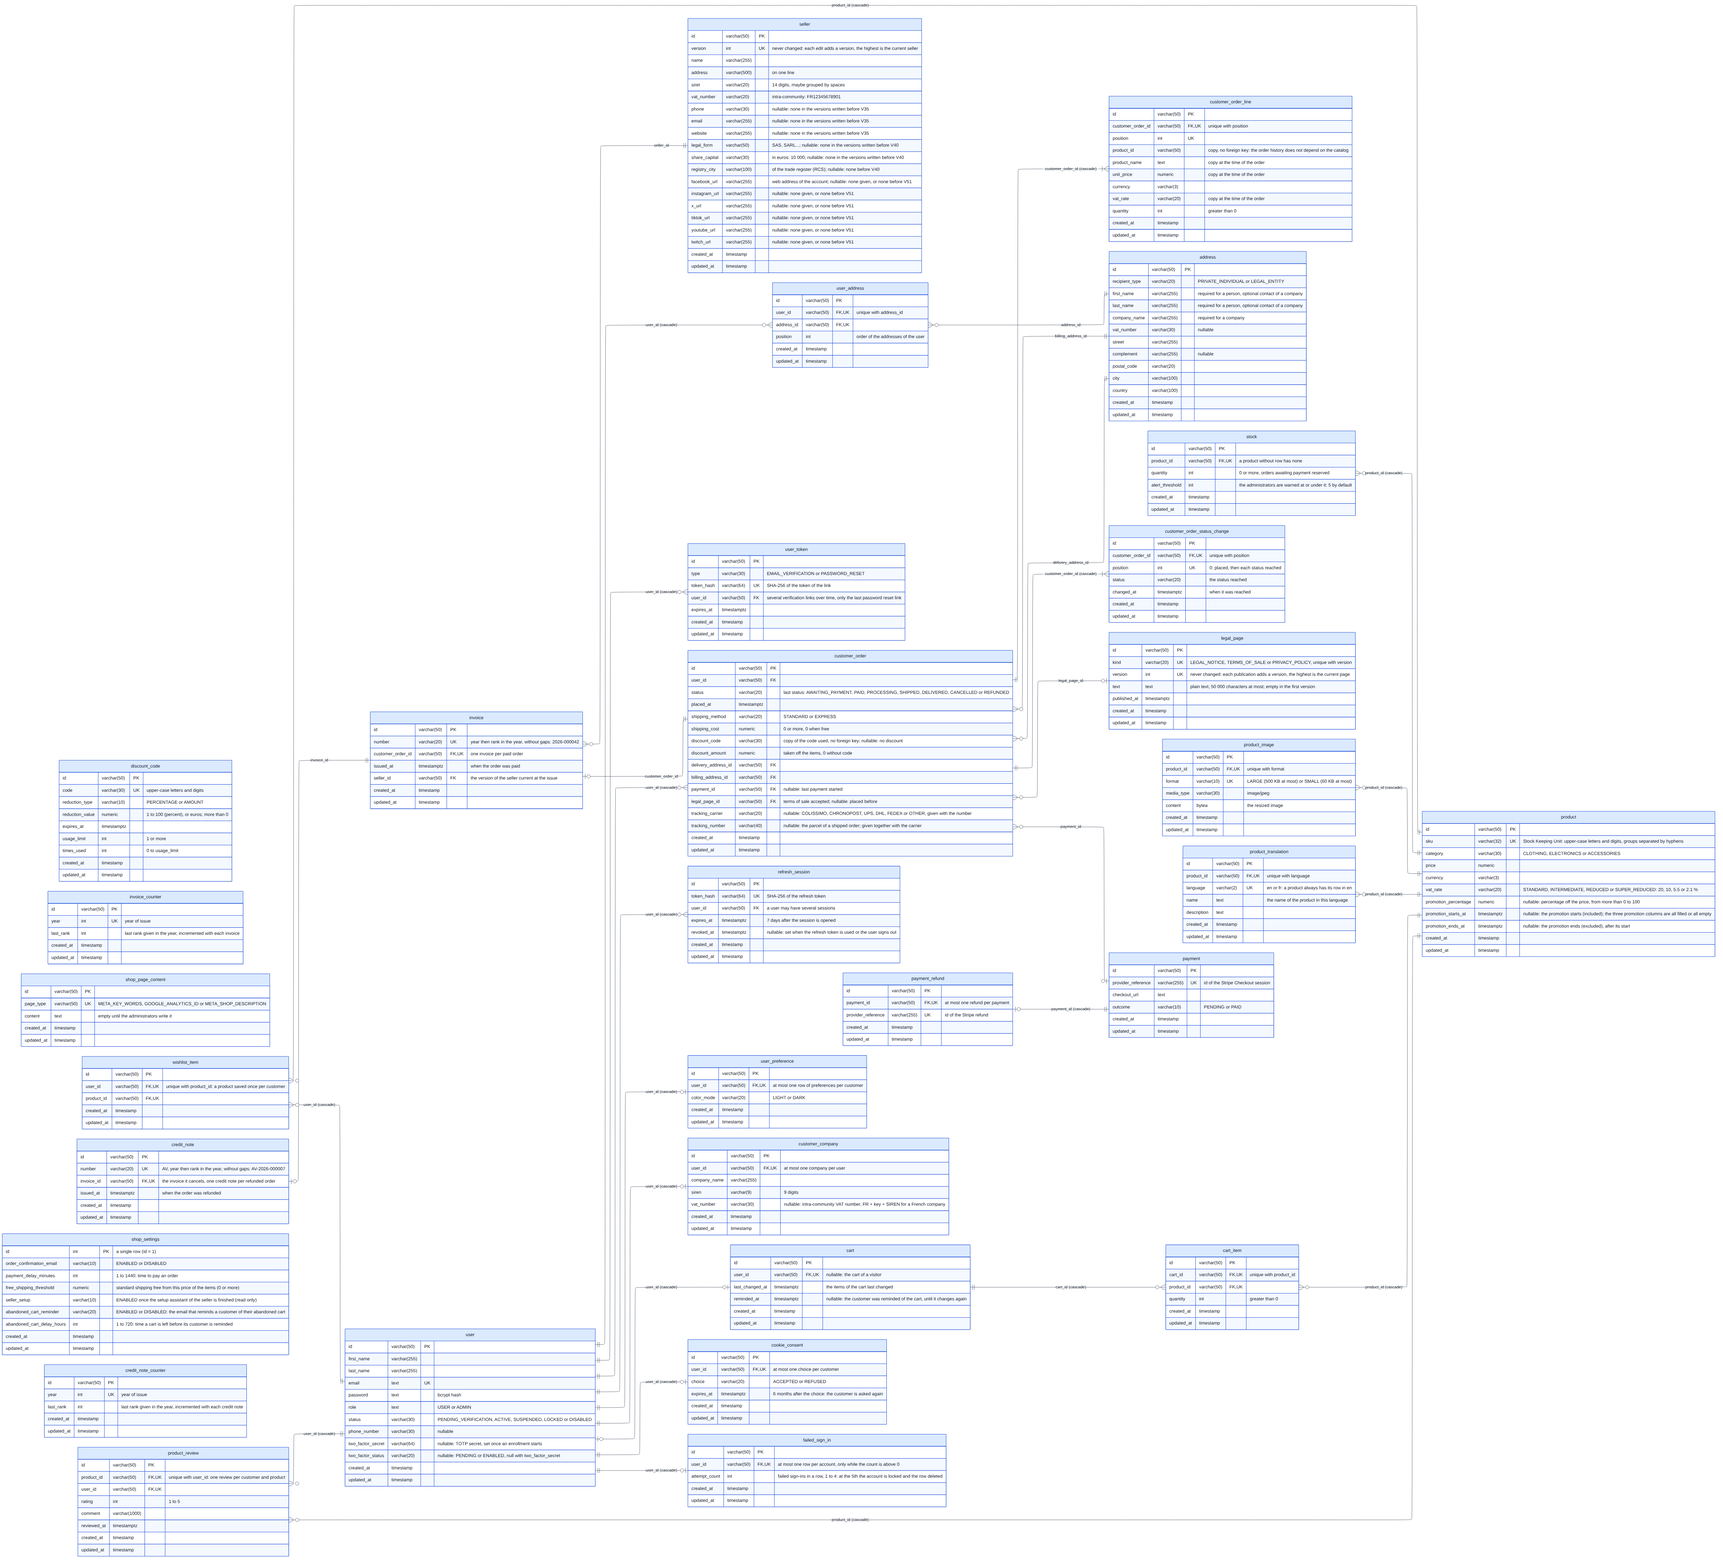
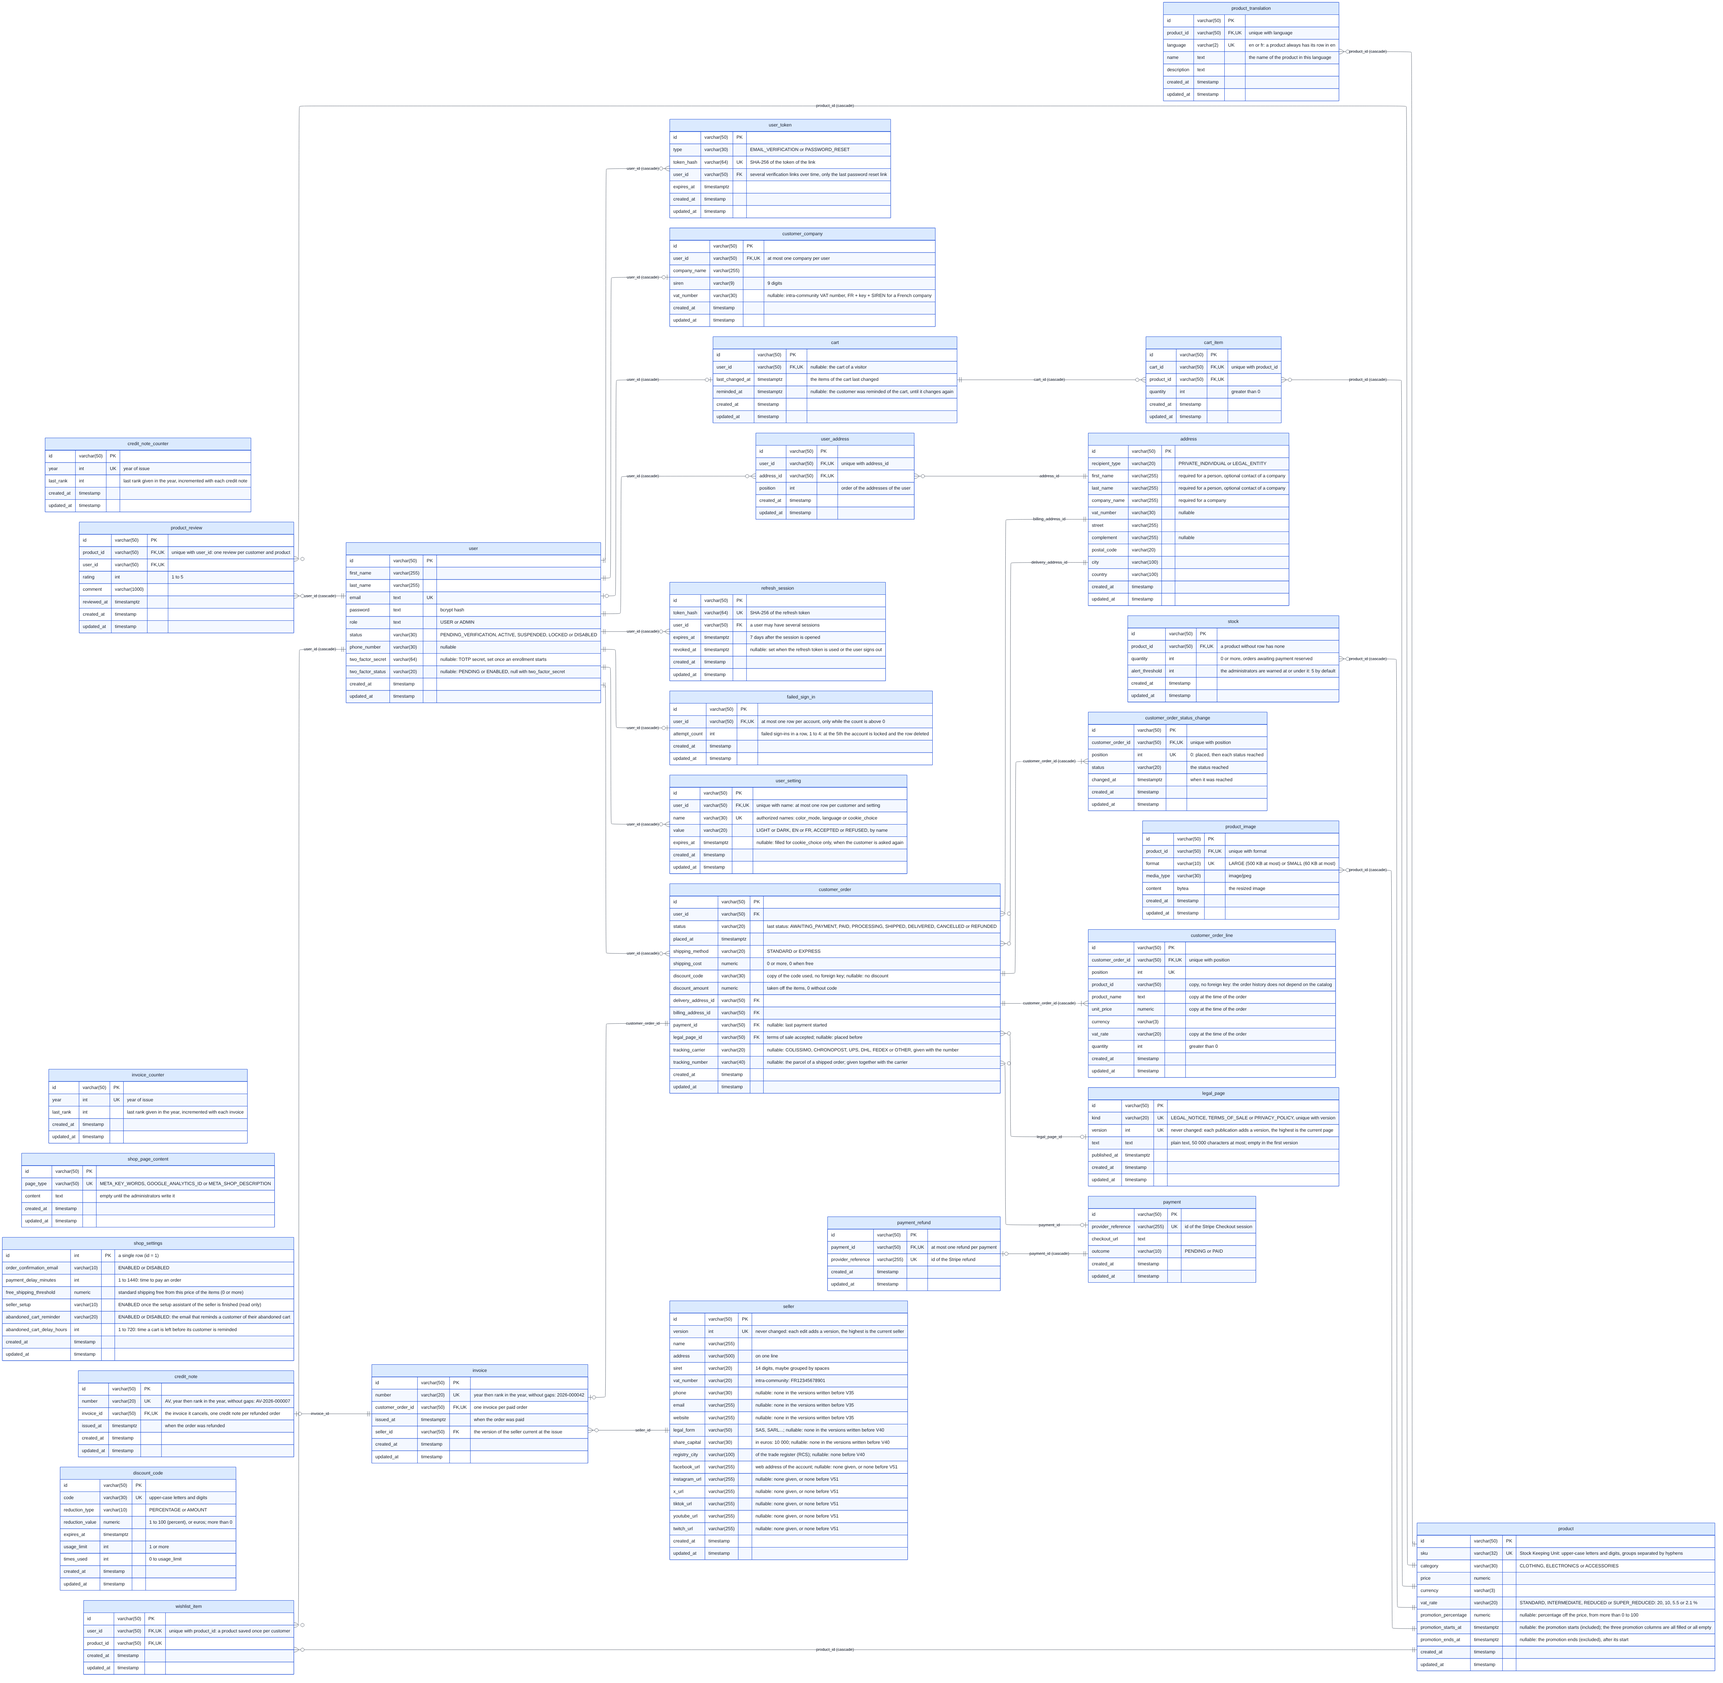
refactor(db): merge cookie_consent and user_preference into user_setting
Both tables held one row per customer, replaced by each new choice. The
settings of a customer are now rows of user_setting, one per customer and
setting name (color_mode, language or cookie_choice, the authorized names),
with its value and the expiry for cookie_choice only. A new setting is a new
authorized name, not a new column. The checks of the table accept only the
authorized names and their authorized values. V58 migrates the existing rows.
The domain ports are unchanged.

Claude-Session: https://claude.ai/code/session_01U9gDSZZiT5EBeJiDQoHqRa

diff --git a/backend/spring-infra/src/main/kotlin/org/flexstore/infra/spring/adapter/persistence/jpa/repository/PostgresUserPreferenceRepositoryAdapter.kt b/backend/spring-infra/src/main/kotlin/org/flexstore/infra/spring/adapter/persistence/jpa/repository/PostgresUserPreferenceRepositoryAdapter.kt
@@ -1,0 +1,44 @@
+package org.flexstore.infra.spring.adapter.persistence.jpa.repository
+
+import org.flexstore.domain.preference.*
+import org.flexstore.domain.product.model.Language
+import org.flexstore.domain.sharedkernel.Identity
+import org.flexstore.domain.user.model.UserId
+import org.flexstore.infra.spring.adapter.persistence.jpa.entity.UserSettingEntity
+import org.flexstore.infra.spring.adapter.persistence.jpa.entity.UserSettingName
+import org.springframework.stereotype.Repository
+import org.springframework.transaction.annotation.Transactional
+
+// The preferences are the color_mode and language settings of the customer: a new choice replaces the value of
+// its setting, the other one is kept
+@Repository
+@Transactional
+class PostgresUserPreferenceRepositoryAdapter(private val jpaRepo: JpaUserSettingRepository) :
+    UserPreferenceRepository {
+
+    @Transactional(readOnly = true)
+    override fun preferencesOf(customer: UserId): UserPreferences {
+        val colorMode = settingOf(customer, UserSettingName.COLOR_MODE)
+            ?.let { ColorModePreference.Chosen(ColorMode.valueOf(it.value)) } ?: ColorModePreference.Unchosen
+        val language = settingOf(customer, UserSettingName.LANGUAGE)
+            ?.let { LanguagePreference.Chosen(Language.valueOf(it.value)) } ?: LanguagePreference.Unchosen
+        return UserPreferences(colorMode, language)
+    }
+
+    override fun save(customer: UserId, preference: UserPreference) {
+        when (preference) {
+            is UserPreference.DisplayMode ->
+                replace(customer, UserSettingName.COLOR_MODE, preference.colorMode.name)
+            is UserPreference.PreferredLanguage ->
+                replace(customer, UserSettingName.LANGUAGE, preference.language.name)
+        }
+    }
+
+    private fun settingOf(customer: UserId, settingName: UserSettingName) =
+        jpaRepo.findByUserIdAndName(customer.value, settingName.stored)
+
+    private fun replace(customer: UserId, settingName: UserSettingName, value: String) {
+        val storedId = settingOf(customer, settingName)?.id ?: Identity.nextId().value
+        jpaRepo.save(UserSettingEntity(storedId, customer.value, settingName.stored, value))
+    }
+}

diff --git a/backend/spring-infra/src/main/kotlin/org/flexstore/infra/spring/adapter/persistence/jpa/repository/PostgresCookieConsentRepositoryAdapter.kt b/backend/spring-infra/src/main/kotlin/org/flexstore/infra/spring/adapter/persistence/jpa/repository/PostgresCookieConsentRepositoryAdapter.kt
@@ -1,0 +1,37 @@
+package org.flexstore.infra.spring.adapter.persistence.jpa.repository
+
+import org.flexstore.domain.cookie.*
+import org.flexstore.domain.sharedkernel.Identity
+import org.flexstore.domain.user.model.UserId
+import org.flexstore.infra.spring.adapter.persistence.jpa.entity.UserSettingEntity
+import org.flexstore.infra.spring.adapter.persistence.jpa.entity.UserSettingName
+import org.springframework.stereotype.Repository
+import org.springframework.transaction.annotation.Transactional
+
+// The consent is the cookie_choice setting of the customer: a new choice replaces its value and its expiry
+@Repository
+@Transactional
+class PostgresCookieConsentRepositoryAdapter(private val jpaRepo: JpaUserSettingRepository) :
+    CookieConsentRepository {
+
+    private val settingName = UserSettingName.COOKIE_CHOICE.stored
+
+    @Transactional(readOnly = true)
+    override fun consentOf(customer: UserId): CookieConsent {
+        val setting = jpaRepo.findByUserIdAndName(customer.value, settingName) ?: return CookieConsent.Undecided
+        val expiresAt = setting.expiresAt ?: return CookieConsent.Undecided
+        return CookieConsent.Given(CookieChoice.valueOf(setting.value), ConsentExpiry(expiresAt))
+    }
+
+    override fun save(customer: UserId, cookieConsent: CookieConsent.Given) {
+        val storedId = jpaRepo.findByUserIdAndName(customer.value, settingName)?.id ?: Identity.nextId().value
+        val setting = UserSettingEntity(
+            id = storedId,
+            userId = customer.value,
+            name = settingName,
+            value = cookieConsent.choice.name,
+            expiresAt = cookieConsent.expiry.value
+        )
+        jpaRepo.save(setting)
+    }
+}

diff --git a/backend/spring-infra/src/main/kotlin/org/flexstore/infra/spring/adapter/persistence/jpa/entity/UserSettingEntity.kt b/backend/spring-infra/src/main/kotlin/org/flexstore/infra/spring/adapter/persistence/jpa/entity/UserSettingEntity.kt
@@ -1,0 +1,26 @@
+package org.flexstore.infra.spring.adapter.persistence.jpa.entity
+
+import jakarta.persistence.*
+import java.time.Instant
+
+// A setting a customer chose: its name (see UserSettingName) and its value, at most one per customer and name
+@Entity
+@Table(name = "user_setting")
+data class UserSettingEntity(
+    @Id
+    val id: String,
+
+    @Column(name = "user_id", nullable = false, updatable = false)
+    val userId: String,
+
+    @Column(nullable = false, updatable = false)
+    val name: String,
+
+    // LIGHT or DARK for color_mode, EN or FR for language, ACCEPTED or REFUSED for cookie_choice
+    @Column(nullable = false)
+    val value: String,
+
+    // Only for cookie_choice: when the customer is asked again
+    @Column(name = "expires_at")
+    val expiresAt: Instant? = null
+) : TimestampedEntity()

diff --git a/backend/spring-infra/src/main/kotlin/org/flexstore/infra/spring/adapter/persistence/jpa/repository/JpaUserSettingRepository.kt b/backend/spring-infra/src/main/kotlin/org/flexstore/infra/spring/adapter/persistence/jpa/repository/JpaUserSettingRepository.kt
@@ -1,0 +1,10 @@
+package org.flexstore.infra.spring.adapter.persistence.jpa.repository
+
+import org.flexstore.infra.spring.adapter.persistence.jpa.entity.UserSettingEntity
+import org.springframework.data.jpa.repository.JpaRepository
+import org.springframework.stereotype.Repository
+
+@Repository
+interface JpaUserSettingRepository : JpaRepository<UserSettingEntity, String> {
+    fun findByUserIdAndName(userId: String, name: String): UserSettingEntity?
+}

diff --git a/backend/spring-infra/src/main/kotlin/org/flexstore/infra/spring/adapter/persistence/jpa/entity/UserSettingName.kt b/backend/spring-infra/src/main/kotlin/org/flexstore/infra/spring/adapter/persistence/jpa/entity/UserSettingName.kt
@@ -1,0 +1,8 @@
+package org.flexstore.infra.spring.adapter.persistence.jpa.entity
+
+// The authorized names of the settings of a customer, as stored (the ones of the check of user_setting.name)
+enum class UserSettingName(val stored: String) {
+    COLOR_MODE("color_mode"),
+    LANGUAGE("language"),
+    COOKIE_CHOICE("cookie_choice")
+}

diff --git a/docs/database.md b/docs/database.md
@@ -1,6 +1,6 @@
 # Physical data model
 
-The PostgreSQL schema of Flexstore, as created by the Flyway migrations of `backend/migrations` (last migration: **V57**). Update this diagram in the same pull request as any migration that changes the schema (see the `database-convention` skill).
+The PostgreSQL schema of Flexstore, as created by the Flyway migrations of `backend/migrations` (last migration: **V58**). Update this diagram in the same pull request as any migration that changes the schema (see the `database-convention` skill).
 
 ![Physical data model](database.png)
 
@@ -258,20 +258,12 @@ erDiagram
         updated_at timestamp
     }
 
-    cookie_consent {
+    user_setting {
         id varchar(50) PK
-        user_id varchar(50) FK,UK "at most one choice per customer"
-        choice varchar(20) "ACCEPTED or REFUSED"
-        expires_at timestamptz "6 months after the choice: the customer is asked again"
-        created_at timestamp
-        updated_at timestamp
-    }
-
-    user_preference {
-        id varchar(50) PK
-        user_id varchar(50) FK,UK "at most one row of preferences per customer"
-        color_mode varchar(20) "LIGHT or DARK, empty until chosen"
-        language varchar(2) "EN or FR, empty until chosen"
+        user_id varchar(50) FK,UK "unique with name: at most one row per customer and setting"
+        name varchar(30) UK "authorized names: color_mode, language or cookie_choice"
+        value varchar(20) "LIGHT or DARK, EN or FR, ACCEPTED or REFUSED, by name"
+        expires_at timestamptz "nullable: filled for cookie_choice only, when the customer is asked again"
         created_at timestamp
         updated_at timestamp
     }
@@ -349,8 +341,7 @@ erDiagram
 
     user ||--o{ user_token : "user_id (cascade)"
     user ||--o| customer_company : "user_id (cascade)"
-    user ||--o| cookie_consent : "user_id (cascade)"
-    user ||--o| user_preference : "user_id (cascade)"
+    user ||--o{ user_setting : "user_id (cascade)"
     user ||--o| failed_sign_in : "user_id (cascade)"
     user ||--o{ refresh_session : "user_id (cascade)"
     user ||--o{ user_address : "user_id (cascade)"
@@ -386,8 +377,10 @@ erDiagram
 - A `credit_note` cancels the `invoice` of a refunded order, and is written with the seller of that invoice. The credit notes have their own sequence of numbers (`credit_note_counter`), as the invoices; V39 issues the credit notes of the orders refunded before it, dated when they were refunded.
 - The `legal_page` rows are the legal notice, the terms of sale and the privacy policy of the shop, written by the administrators and read by everyone. Each publication adds a version of its kind and never changes one, so that the terms of sale of a given date can be found again. The migration creates a first, empty version of each kind; V38 adds a standard version of each one, written with the current seller, while its current version is still empty. V55 adds the privacy policy: a first, empty version, then its standard version, in the same way. An order keeps the version of the terms of sale its customer accepted (`legal_page_id`); the orders placed before V37 have none.
 - A customer who creates their account for their company gives it once: its `customer_company` row (name, SIREN, VAT number). The address they give is then addressed to the company, for their attention (`address.recipient_type` `LEGAL_ENTITY`, with the company name and the VAT number).
-- A signed-in customer's choice about the preference cookies is one `cookie_consent` row, replaced by each new choice and valid until `expires_at` (6 months after the choice). A visitor who is not signed in keeps theirs in their browser; at sign-in it is recorded here and removed from the browser.
-- A signed-in customer's display mode (light or dark) and preferred language (`en` or `fr`) are kept in their `user_preference` row (columns `color_mode` and `language`), created by their first choice and updated by each new one; each column is empty until the customer chooses it (V56), and a customer who never chose has no row. Their browser decides for the display mode, and the page for the language. A visitor who is not signed in keeps theirs in their browser (when they accepted the preference cookies).
+- The settings of a signed-in customer are `user_setting` rows (V58 merged the former `cookie_consent` and `user_preference` tables into it): one row per setting the customer chose, at most one per customer and `name`, replaced by each new choice. A new setting is a new authorized name (and its authorized values) in the checks of the table, not a new column. A customer who never chose a setting has no row for it.
+  - `cookie_choice`: their choice about the preference cookies (`ACCEPTED` or `REFUSED`), valid until `expires_at` (6 months after the choice, then the customer is asked again; `expires_at` is filled for this setting only). A visitor who is not signed in keeps theirs in their browser; at sign-in it is recorded here and removed from the browser;
+  - `color_mode`: their display mode (`LIGHT` or `DARK`); without a row, their browser decides. A visitor who is not signed in keeps theirs in their browser (when they accepted the preference cookies);
+  - `language`: their preferred language (`EN` or `FR`); without a row, the page decides.
 - A wrong password for an existing account adds one to its `failed_sign_in` row (created by the first failure). At the 5th failure in a row, the account becomes `LOCKED` and the row is deleted, so that the count starts again when an administrator reactivates the account; a successful sign-in deletes the row too. An email that belongs to no account, and an account that cannot sign in already, are not counted.
 - A `refresh_session` is a session of a signed-in user: its refresh token renews their access token (15 minutes) once, then the session is revoked (`revoked_at`) and replaced by a new row. A revoked token that comes back revokes every open session of its user. Only the hash of the token is stored; deleting a user deletes their sessions.
 - The carrier and the tracking number of the parcel of an order are given together by an administrator when the order is shipped, or corrected afterwards (`tracking_carrier` and `tracking_number`, a check forbids one without the other); the orders shipped before V45, or shipped without them, have none.

diff --git a/README.md b/README.md
@@ -42,7 +42,7 @@ This repo is meant to be a learning vehicle and a ready-to-fork base for real pr
 - Create an account (first name, last name, email, password, phone number, postal address; a customer who buys for their company ticks *I am a company* and gives its name, its SIREN and, optionally, its intra-community VAT number, which must match the SIREN for a French company: the address is then sent to the company, for their attention, and the invoices carry its name and VAT number): the account waits for the verification of the email (`PENDING_VERIFICATION`), the customer is signed in at once and can order
 - Verify the email with the link received by email (valid for 1 hour): the account becomes `ACTIVE`; a new link can be asked for from the profile
 - Sign in, sign out, profile, change password; the session is renewed with a refresh token (see Authentication); brute-force protection: after 5 failed sign-ins in a row (a wrong password for an existing account), the account is locked (`LOCKED`) until an administrator reactivates it; a successful sign-in starts the count again; a wrong password and an unknown email still get the same answer
-- Cookies: a banner asks the visitor at their first visit to accept or refuse the preference cookies (the light or dark mode kept for the next visits); the essential cookies (sign-in, cart) need no consent; the customer changes their choice in their account (profile page), and refusing forgets the stored preferences. A visitor keeps their choice in the browser (`localStorage`); a signed-in customer has it in the database (`cookie_consent`, `GET` and `PUT /api/cookie-consent`) for 6 months, after which they are asked again; at sign-in, the choice of the browser is recorded in their account and removed from the browser
+- Cookies: a banner asks the visitor at their first visit to accept or refuse the preference cookies (the light or dark mode kept for the next visits); the essential cookies (sign-in, cart) need no consent; the customer changes their choice in their account (profile page), and refusing forgets the stored preferences. A visitor keeps their choice in the browser (`localStorage`); a signed-in customer has it in the database (`user_setting`, `GET` and `PUT /api/cookie-consent`) for 6 months, after which they are asked again; at sign-in, the choice of the browser is recorded in their account and removed from the browser
 - My addresses: see, edit and remove the postal addresses of the account; the orders keep the address they were sent to
 - Sales dashboard (`ADMIN` role): revenue, number of orders and average basket, orders per day (bars) and the 5 best sellers, over the last 7, 30 or 90 days; only the paid orders count (not the awaiting, cancelled or refunded ones), on the day they were placed in Paris time
 - Administration (`ADMIN` role): users (list with their role, create with a role, edit first name/last name/email/role, change the status of the account (active, suspended, locked, disabled), delete), products (list, create, edit name/description/category/price, and a promotion: a percentage off the price, the regular price shown struck through), orders (list the orders of all the customers, move each one to its next status: paid, processing, shipped, delivered; the payment moves an order awaiting it), settings (order confirmation email on/off, abandoned cart reminder on/off and its delay), environment (which environment variables of the back end are defined: the plain ones with their value, the passwords, keys and secrets only as defined or not, never with their value)
